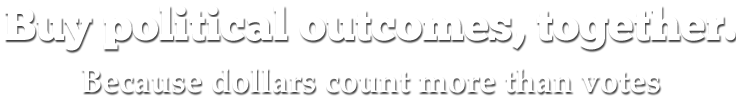
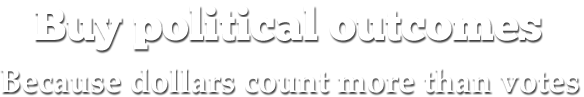
ready for landing page visual demo launch

diff --git a/app/assets/stylesheets/welcome.css.scss b/app/assets/stylesheets/welcome.css.scss
@@ -13,6 +13,8 @@ html, body {
 
 a{
   text-decoration: none;
+  font-weight: bold;
+  color: white;
 }
 
 .header-bar{
@@ -46,7 +48,7 @@ a{
   height: 350px;
   overflow: hidden;
   min-width: 900px;
-  border-top: solid 1px #0000AA;
+/*  border-top: solid 1px #0000AA;*/
 }
 
 img#landing-image{
@@ -73,12 +75,12 @@ img#landing-image{
 
 img#landing-intro-text{
   position: relative;
-  left: 90px;
+  left: 163px;
 }
 
 #landing-call-to-action-outer{
   position: absolute;
-  top: 464px;
+  top: 463px;
   width: 100%;
   height: 100px;
   min-width: 900px;
@@ -133,15 +135,13 @@ img#landing-intro-text{
 
 #login-links{
   font-size: 18px;
-  display: inline-block;
   position: absolute;
   right: 0px;
   top: 24px;
-  font-weight: bold;
 }
 
 .header-links{
-  color: white;
+
 }
 
 h1#intro-text{
@@ -153,14 +153,30 @@ h1#intro-text{
 #footer-outer{
  width: 100%;
  background-color: #0000AA;
- border-top: solid 12px #CC0000;
+ border-top: solid 4px #BB0000;
 }
 
 #footer-inner{
   width: 900px;
   margin: auto;
   height: 100px;
+  position: relative;
 }
+
+#footer-links{
+  width: 350px;
+  margin: auto;
+  font-size: 18px;
+/*  margin-top: 35px;*/
+  position: relative;
+  top: 50px;
+}
+
+.footer-link{
+
+}
+
+
 
 span.divider-star{
   margin-right: 4px;
@@ -234,7 +250,7 @@ img#landing-seal{
 
 #landing-how-works-outer{
   position: absolute;
-  top: 610px;
+  top: 600px;
   width: 100%;
   min-width: 900px;
 }
@@ -265,4 +281,5 @@ h4.landing-how-step{
 
 p.landing-how-step{
   line-height: 1.5em;
+  text-align: center;
 }

diff --git a/app/assets/javascripts/welcome.js b/app/assets/javascripts/welcome.js
@@ -1,2 +1,9 @@
 // Place all the behaviors and hooks related to the matching controller here.
 // All this logic will automatically be available in application.js.
+
+$(document).ready(function(){
+  $("a").click(function(e){
+    e.preventDefault();
+    return false;
+  });
+});
